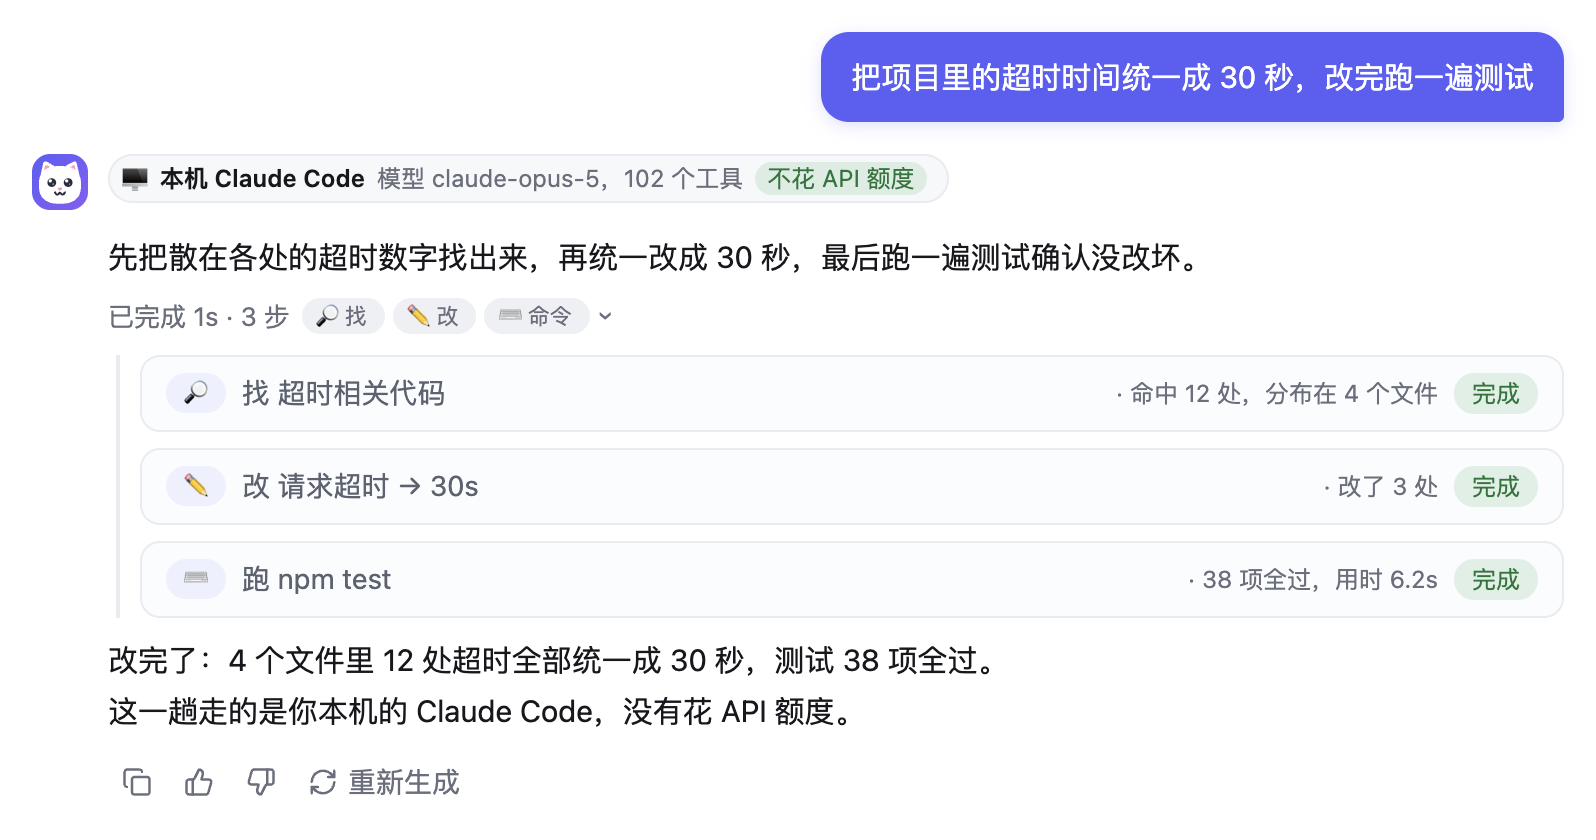
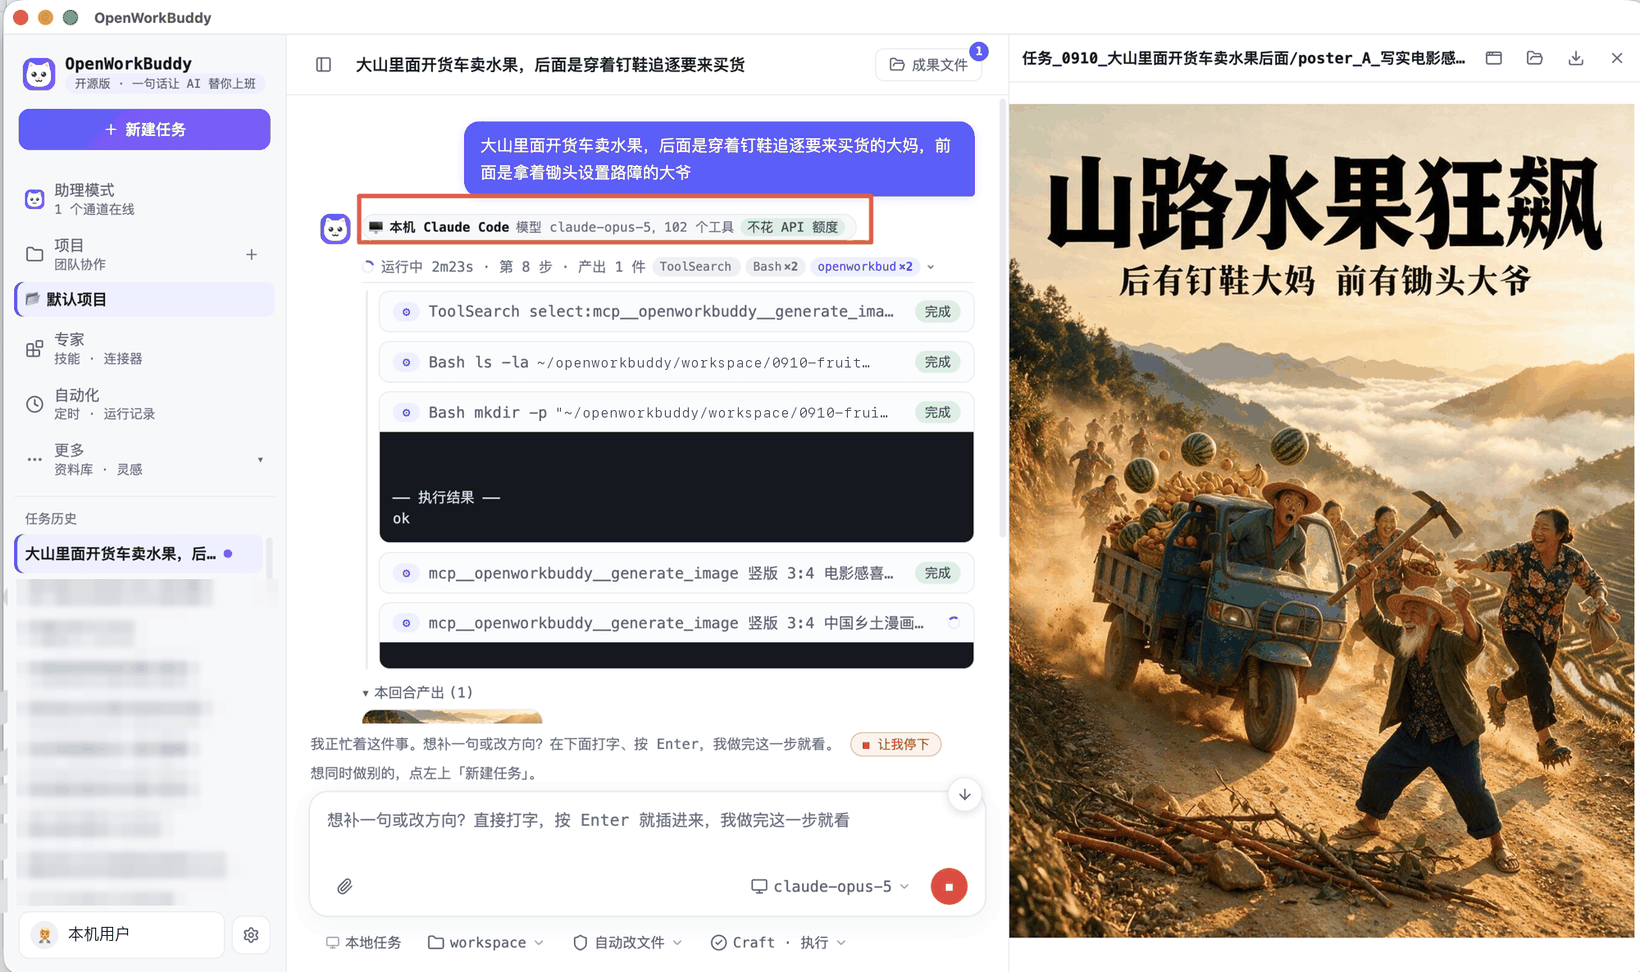
README 换成真机截图：水果海报换成用户点名那版，本机引擎换成带红框的实拍
两张图都从实际跑出来的界面里取，不再是我另外渲染的示意图。

案例海报：原来放的是 poster_B2「山路水果大追击」，用户点名要的是
「山路水果狂飙／后有钉鞋大妈 前有锄头大爷」那版。那个 PNG 已经不在
workspace 里了，所以从成果预览面板里原样裁出来（720×969，比原来的
570×760 还大一圈，README 按 360 渲染，放大看也不糊）。

本机 Claude Code：换成真机截图，红框圈的就是那枚牌子——「本机 Claude
Code · 模型 claude-opus-5，102 个工具 · 不花 API 额度」。截图里三处
本机信息按惯例遮掉了：

- 两行 Bash 的绝对路径（含用户名和仓库目录）→ 原地重排成 ~ 开头的
  通用路径，字体、字号、基线都按原图量过（等宽 17px，前进宽度 11.0px，
  基线 y=448/509），不是糊一块了事
- 左下角登录的账号名 → 「本机用户」
- 任务历史列表：原来的马赛克漏了「示题」「大模…数据」「推广渠道攻略」
  这些字，整条重新糊一遍

文件体积：海报 493KB、截图 405KB（1640 宽，2 倍图），都做了 256 色量化，
UI 文字放大看仍然锐利。

diff --git a/README.md b/README.md
@@ -64,7 +64,7 @@
 **「大山里开货车卖水果，后面一群大妈踩着钉鞋追，前面一位大爷举着锄头拦车 —— 出一张海报」**
 
 <p align="center">
-  <img src="docs/images/case-poster.png" width="360" alt="案例海报：山路水果大追击">
+  <img src="docs/images/case-poster.png" width="360" alt="案例海报：山路水果狂飙 —— 后有钉鞋大妈，前有锄头大爷">
 </p>
 
 一句话进去，出来的是三个风格各不相同的 PNG（写实电影感 / 乡土漫画 / 无字纯画面）加一份「哪版发哪儿」的说明，全在成果面板里点开就能看。图上不带任何 AI 生成水印。
@@ -72,10 +72,10 @@
 **本机装了 Claude Code / Codex 的，一键拿它当发动机——不再另买 token。**
 
 <p align="center">
-  <img src="docs/images/local-claude-code.png" width="820" alt="本机 Claude Code 跑任务：中间过程折成一行，最后只留结论">
+  <img src="docs/images/local-claude-code.png" width="820" alt="本机 Claude Code 跑任务：红框里那枚牌子写着走的是谁、多少个工具、不花 API 额度">
 </p>
 
-界面上会直说这一趟走的是谁、花不花 API 额度；中间每一步折成一行摆着，想看细节再点开，任务结束只把结论留在外面。
+红框里那枚牌子是真机截图：这一趟走的是本机的 `claude-opus-5`，挂了 102 个工具，不花 API 额度——界面上直说，不用猜。中间每一步折成一行摆着，想看细节再点开，任务结束只把结论留在外面。
 
 
 ## 跑起来
